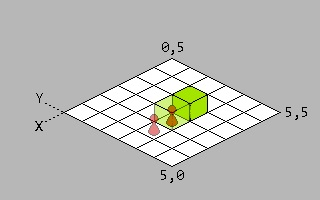
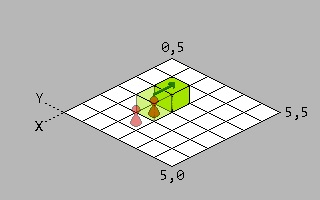
Added Goo Block Images pt 1

Changed region(s): [[0.4062, 0.39, 0.6562, 0.69]]

diff --git a/README.md b/README.md
@@ -351,6 +351,12 @@ A unique block which shares some similarish behaviours with the Magnet and Paper
 
 </div>
 
+6. Goo Blocks can be combined vertically by them falling at least one block's height onto another Goo Block. Alternatively, if two Goo Blocks are towered, the Player's Character can walk atop them to force their combination.
+
+7. Emerging works on a set of priorities. If the space above the Player's Character is occupied when a Goo Block is reverted over them; another direction to emit the Player's Character must be decided. The priorities are **up**, **backward**, **forward**, **left**, **right**. Where directions are from the perspective of the Player's Character towards the reverted Goo Block.
+
+8. When a Goo Block is squashed with a Standard Block, it squeezes to the surface of the Standard Block. This is similar to how the Player's Character emerges from a Goo Block which has engulfed them. However, it is possible there is no direction the Goo Block could emerge, in this case; it is destroyed.
+
 #### **Temple Block (Better Name TBD)**
 
 Very different in behaviour to Standard Blocks.
